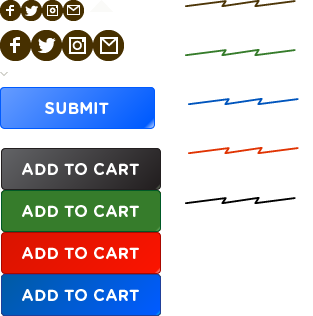
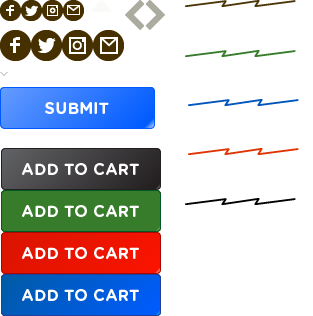
fixed arrows on main slideshow

diff --git a/sites/all/themes/sightglass/less/front.css.less b/sites/all/themes/sightglass/less/front.css.less
@@ -29,11 +29,11 @@
 			top: 200px;
 		}
 		.views-slideshow-controls-text-previous {
-			background-position: -152px -30px;
+			background-position: -125px 0;
 			left: -40px;
 		}
 		.views-slideshow-controls-text-next {
-			background-position: -173px -30px;
+			background-position: -145px 0;
 			right: -40px;
 		}
 
